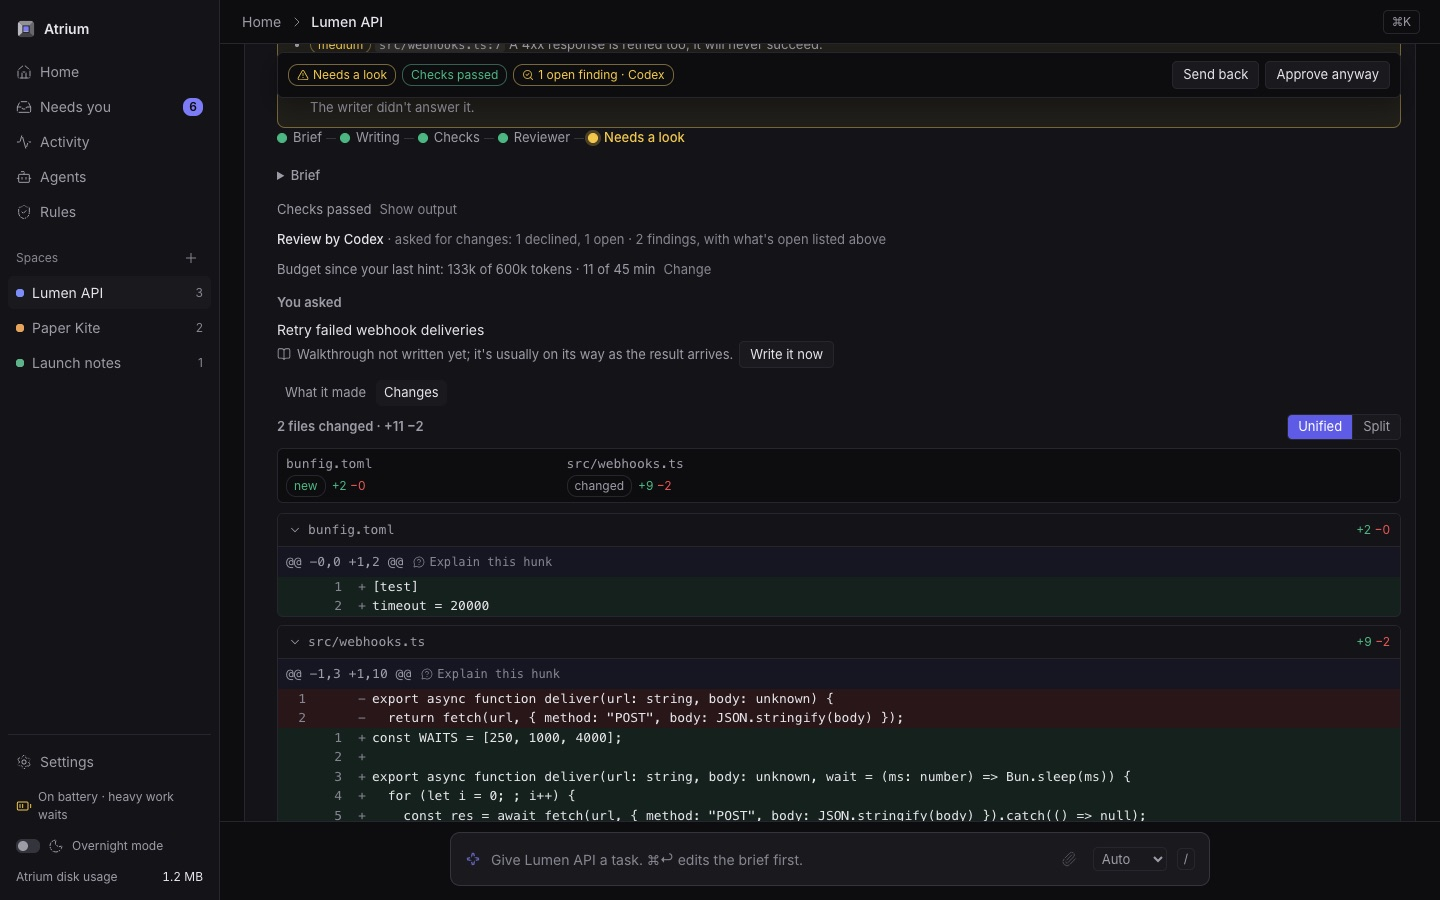
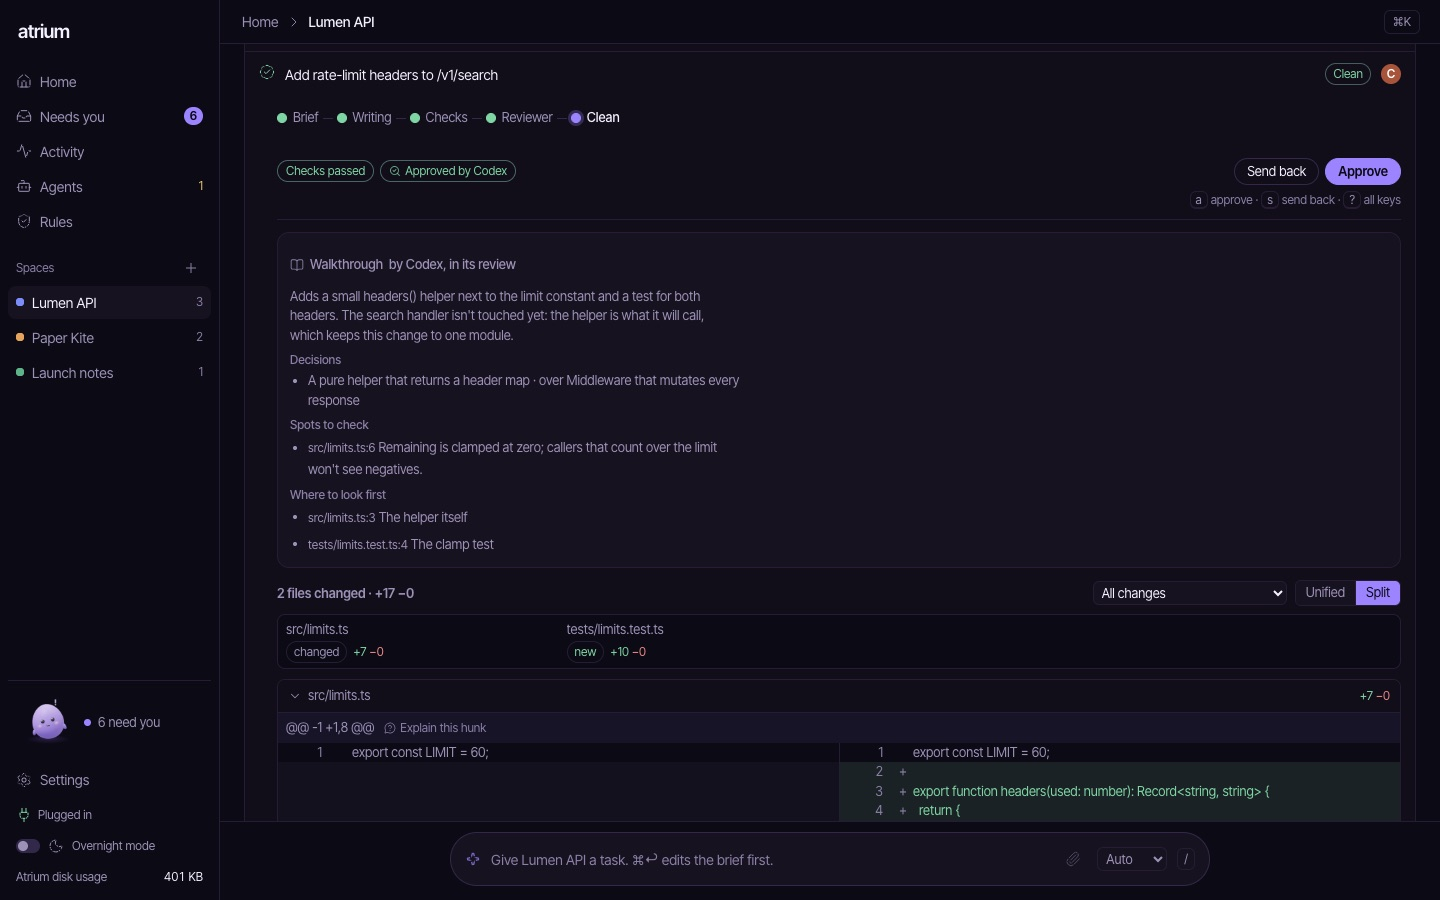
Retake the README screenshots in the new look and note Plum in the docs

diff --git a/README.md b/README.md
@@ -4,7 +4,7 @@ The agent workbench for the new way of coding, on your Mac.
 
 The job has moved from writing code to directing agents and judging what they wrote. Most tools stop at running agents: a branch per task, a live diff, a PR button. Atrium is about the part that decides whether agent work is any good. Every task gets a brief an agent can finish, Atrium runs your checks itself instead of trusting "tests pass", a fresh reviewer reads the diff before you do, and everything that needs you lands in one keyboard-first queue. Along the way it helps you get better at directing agents, with feedback built only from what it measured. It runs on your Mac, on your own Claude subscription, with only the Claude CLI and a folder.
 
-Site: <https://nakulpatel0306.github.io/atrium/> · Why it works this way: [docs/why.md](docs/why.md)
+Site: <https://nakulpatel0306.github.io/atrium/> · The terminal app: <https://nakulpatel0306.github.io/atrium/terminal.html> · Why it works this way: [docs/why.md](docs/why.md)
 
 ![Needs you: one queue, longest-waiting first, with a result's walkthrough, checks and review on one screen](docs/screenshots/queue.jpg)
 
@@ -73,7 +73,7 @@ Directing agents is a skill, and so is understanding the code they write. Atrium
 
 ## Screenshots
 
-All screenshots come from a throwaway engine with fake agents and made-up repos.
+All screenshots come from a throwaway engine with fake agents and made-up repos. The look is Monolith Violet, dark or light: violet-tinted greys, purple only where you act, and Plum, Atrium's character, at the foot of the sidebar, at work while agents run, looking up when something needs you, asleep when nothing does.
 
 | | |
 |---|---|

diff --git a/docs/README.md b/docs/README.md
@@ -4,6 +4,6 @@
 - [The loop](loop.md): the brief, the checks, the reviewer, budgets and loop detection, the queue, and the gate's threat model.
 - [Why it works this way](why.md): the research behind the design, with sources.
 - [Copy inventory](copy-inventory.md): the wording used across the interface, and the rules for it.
-- [Brand](brand/): logo files.
+- [Brand](brand/): logo files. Plum, the character, is drawn in 3D by `site/plum.js` (three.js, vendored in `site/vendor/`); its still images are in `site/plum/` and `src/dashboard/assets/plum/`, and the Mac app's icon comes from `mac/Tools/plum.png`.
 
 For setup, see the [main README](../README.md). Contributor rules are in [CLAUDE.md](../CLAUDE.md).
